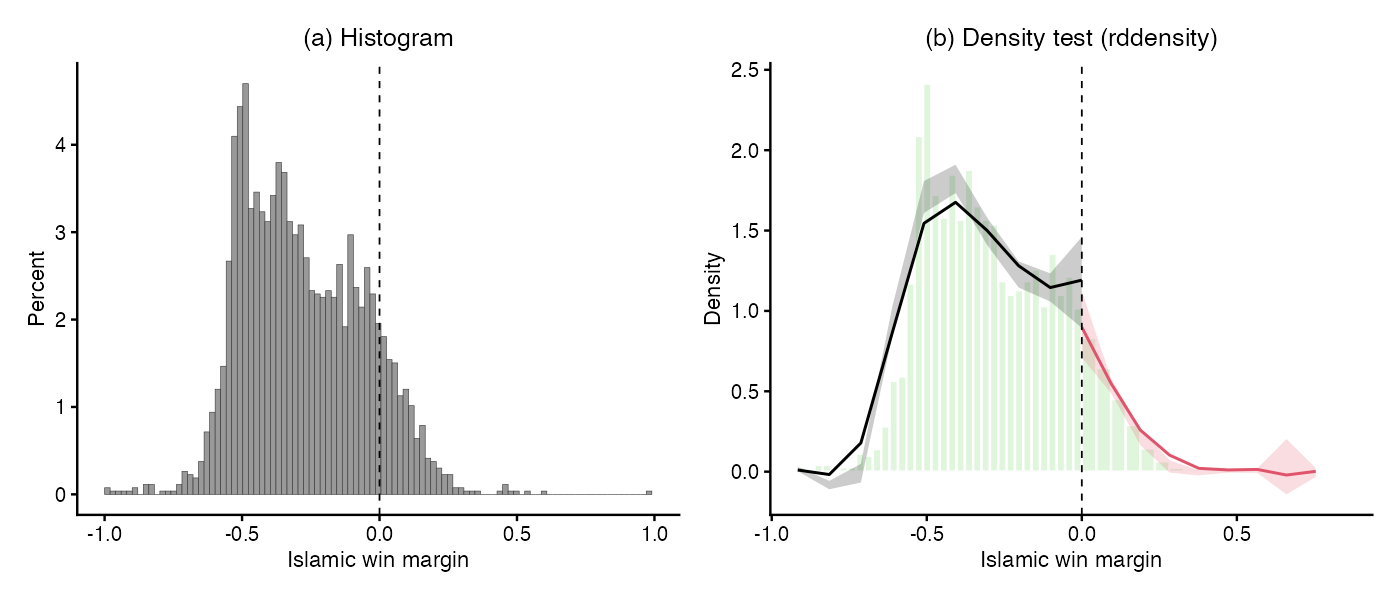
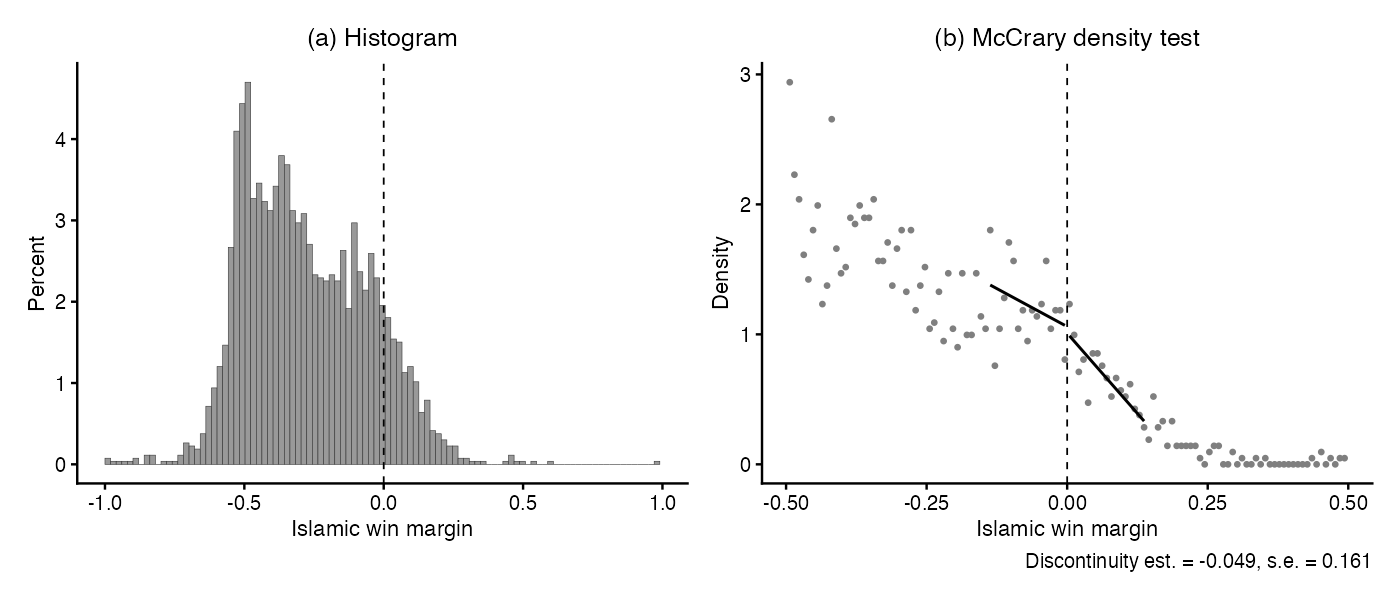
sajat mccrary teszt a 06-os scriptben, mert a rdd csomag mar nincs CRAN-on. ugyanazt adja mint a do-file (-0.049, se 0.161, p 0.76). az extension scriptek 07 es 08 lettek, nem volt 07-es. table3-ban a csillagok felso indexbe kerultek, kulonben latszott a latex forras, readme es session info frissitv

diff --git a/output/tables/table3.tex b/output/tables/table3.tex
@@ -3,16 +3,16 @@
 \toprule
  & Polynomial & h = 1.00 & h = 0.50 & h = 0.25 & h = 0.10 & h = 0.05\\
 \midrule
-Women & None & 0.012** (0.006) & 0.015** (0.006) & 0.018*** (0.006) & 0.025*** (0.007) & 0.018* (0.010)\\
- & Linear & 0.014** (0.007) & 0.021*** (0.006) & 0.025*** (0.007) & 0.028** (0.012) & 0.039** (0.019)\\
- & Quadratic & 0.027*** (0.007) & 0.030*** (0.007) & 0.033*** (0.010) & 0.032* (0.018) & 0.051 (0.032)\\
- & Cubic & 0.031*** (0.007) & 0.026*** (0.010) & 0.036** (0.015) & 0.057** (0.028) & 0.054 (0.042)\\
- & Quartic & 0.030*** (0.009) & 0.032** (0.012) & 0.044** (0.017) & 0.067** (0.033) & 0.028 (0.056)\\
+Women & None & 0.012$^{**}$ (0.006) & 0.015$^{**}$ (0.006) & 0.018$^{***}$ (0.006) & 0.025$^{***}$ (0.007) & 0.018$^{*}$ (0.010)\\
+ & Linear & 0.014$^{**}$ (0.007) & 0.021$^{***}$ (0.006) & 0.025$^{***}$ (0.007) & 0.028$^{**}$ (0.012) & 0.039$^{**}$ (0.019)\\
+ & Quadratic & 0.027$^{***}$ (0.007) & 0.030$^{***}$ (0.007) & 0.033$^{***}$ (0.010) & 0.032$^{*}$ (0.018) & 0.051 (0.032)\\
+ & Cubic & 0.031$^{***}$ (0.007) & 0.026$^{***}$ (0.010) & 0.036$^{**}$ (0.015) & 0.057$^{**}$ (0.028) & 0.054 (0.042)\\
+ & Quartic & 0.030$^{***}$ (0.009) & 0.032$^{**}$ (0.012) & 0.044$^{**}$ (0.017) & 0.067$^{**}$ (0.033) & 0.028 (0.056)\\
 \addlinespace
-Men & None & 0.009 (0.006) & 0.011* (0.006) & 0.012* (0.007) & 0.015* (0.008) & 0.010 (0.011)\\
- & Linear & 0.010* (0.006) & 0.014** (0.006) & 0.012* (0.007) & 0.011 (0.012) & 0.017 (0.013)\\
- & Quadratic & 0.016** (0.007) & 0.016** (0.007) & 0.019* (0.010) & 0.024 (0.016) & 0.048* (0.025)\\
- & Cubic & 0.017** (0.007) & 0.016 (0.010) & 0.025* (0.013) & 0.038* (0.023) & 0.048 (0.041)\\
- & Quartic & 0.017* (0.010) & 0.028** (0.012) & 0.026* (0.015) & 0.071** (0.028) & 0.035 (0.058)\\
+Men & None & 0.009 (0.006) & 0.011$^{*}$ (0.006) & 0.012$^{*}$ (0.007) & 0.015$^{*}$ (0.008) & 0.010 (0.011)\\
+ & Linear & 0.010$^{*}$ (0.006) & 0.014$^{**}$ (0.006) & 0.012$^{*}$ (0.007) & 0.011 (0.012) & 0.017 (0.013)\\
+ & Quadratic & 0.016$^{**}$ (0.007) & 0.016$^{**}$ (0.007) & 0.019$^{*}$ (0.010) & 0.024 (0.016) & 0.048$^{*}$ (0.025)\\
+ & Cubic & 0.017$^{**}$ (0.007) & 0.016 (0.010) & 0.025$^{*}$ (0.013) & 0.038$^{*}$ (0.023) & 0.048 (0.041)\\
+ & Quartic & 0.017$^{*}$ (0.010) & 0.028$^{**}$ (0.012) & 0.026$^{*}$ (0.015) & 0.071$^{**}$ (0.028) & 0.035 (0.058)\\
 \bottomrule
 \end{tabular}

diff --git a/py/ext_b_lasso.py b/py/ext_b_lasso.py
@@ -1,7 +1,7 @@
 """Extension B: "poor" index for each municipality.
 Lasso (LassoCV, 5 folds) that predicts the high school share of women 15-20 in 2000 from things fixed before 1994.
 Trained only on municipalities without an Islamic mayor, so the prediction is the schooling we would expect without one.
-Political variables are left out so poor does not overlap with pious. Called from R/09_extension_b.R, which writes the input csv first"""
+Political variables are left out so poor does not overlap with pious. Called from R/08_extension_b.R, which writes the input csv first"""
 
 
 import pandas as pd
@@ -18,7 +18,7 @@ untreated = df["i94"] == 0
 X = df.loc[untreated, predictors]
 y = df.loc[untreated, "hischshr1520f"]
 
-# same seed as set.seed in R/00_setup.R
+# fixed seed, so the folds are the same in every run
 folds = KFold(n_splits=5, shuffle=True, random_state=20261120)
 lasso = make_pipeline(StandardScaler(), LassoCV(cv=folds))
 lasso.fit(X, y)

diff --git a/output/tables/table1.tex b/output/tables/table1.tex
@@ -12,8 +12,8 @@ Population share below 19 & 0.405 & 0.083 & 0.445 & 0.075 & 0.400 & 0.082 & 0.04
 Population share above 60 & 0.092 & 0.040 & 0.073 & 0.031 & 0.095 & 0.040 & -0.022 & 0.002\\
 Gender ratio & 1.073 & 0.253 & 1.076 & 0.117 & 1.073 & 0.266 & 0.003 & 0.015\\
 Household size & 5.835 & 2.360 & 6.445 & 2.147 & 5.752 & 2.376 & 0.693 & 0.141\\
-District center & 0.345 & 0.475 & 0.394 & 0.489 & 0.338 & 0.473 & 0.056 & 0.029\\
-Province center & 0.023 & 0.149 & 0.067 & 0.250 & 0.017 & 0.129 & 0.050 & 0.009\\
-Sub-metro center & 0.022 & 0.146 & 0.076 & 0.266 & 0.014 & 0.119 & 0.062 & 0.009\\
+District centre & 0.345 & 0.475 & 0.394 & 0.489 & 0.338 & 0.473 & 0.056 & 0.029\\
+Province centre & 0.023 & 0.149 & 0.067 & 0.250 & 0.017 & 0.129 & 0.050 & 0.009\\
+Sub-metro centre & 0.022 & 0.146 & 0.076 & 0.266 & 0.014 & 0.119 & 0.062 & 0.009\\
 \bottomrule
 \end{tabular}

diff --git a/README.md b/README.md
@@ -15,8 +15,7 @@ and two extensions. Everything is in R, except the lasso in Extension B, which i
 1. Install the packages once:
 
    ```
-   Rscript -e 'install.packages(c("tidyverse", "haven", "fixest", "AER", "patchwork", "knitr"))'
-   Rscript -e 'install.packages("https://cran.r-project.org/src/contrib/Archive/rdd/rdd_0.57.tar.gz", repos = NULL, type = "source")'
+   Rscript -e 'install.packages(c("tidyverse", "haven", "fixest", "patchwork", "knitr"))'
    pip install -r requirements.txt
    ```
 
@@ -26,7 +25,7 @@ and two extensions. Everything is in R, except the lasso in Extension B, which i
    Rscript run_all.R
    ```
 
-`run_all.R` runs the scripts in `R/` in order, each in its own R session. `R/09_extension_b.R` calls `python3` for the lasso, so Python has to be on the path. The scripts print the main results and sample sizes to the console and write the tables as LaTeX to `output/tables` and the figures to `output/figures`.
+`run_all.R` runs the scripts in `R/` in order, each in its own R session, and then writes the package versions to `output/session_info.txt`. `R/08_extension_b.R` and `run_all.R` call `python3`, so Python has to be on the path. The scripts print the main results and sample sizes to the console and write the tables as LaTeX to `output/tables` and the figures to `output/figures`.
 
 The write-up itself is not in this repository; it is submitted separately. It takes its tables and figures straight from `output/`, which is committed so the results can be read without running anything.
 
@@ -34,15 +33,15 @@ The write-up itself is not in this repository; it is submitted separately. It ta
 
 | Script | Output |
 | --- | --- |
-| `R/00_setup.R` | Packages, controls, bandwidths, the RD regression `rd_reg()` and the `etable()` settings. Sourced by every script |
+| `R/00_setup.R` | Packages, controls, the main bandwidths for women and men, the RD regression `rd_reg()` and the `etable()` settings. Sourced by every script |
 | `R/01_prepare_data.R` | Estimation samples in `data/derived/` (not committed) |
 | `R/02_table1.R` | `table1.tex`, summary statistics |
-| `R/03_table2.R` | `table2_women.tex`, `table2_men.tex` |
+| `R/03_table2.R` | `table2_women.tex`, `table2_men.tex`; the enrolment bandwidths and the women = men test are in this script |
 | `R/04_table3.R` | `table3.tex` |
-| `R/05_table7.R` | `table7_hs1519.tex`, `table7_hs1529.tex`, `table7_nevm1519.tex` |
-| `R/06_figures.R` | `figure1`–`figure4` (PDF and PNG); prints the density test and the covariate regressions behind Figure 3 |
-| `R/08_extension_a.R` | `ext_a.tex`, `ext_a_cohorts` figure |
-| `R/09_extension_b.R`, `py/ext_b_lasso.py` | `ext_b.tex`; `ext_b_lasso_fit.csv` and `ext_b_lasso_coefficients.csv` from the lasso |
+| `R/05_table7.R` | `table7_hs1519.tex`, `table7_hs1529.tex`, `table7_nevm1519.tex`; the six Table VII bandwidths are in this script |
+| `R/06_figures.R` | `figure1`–`figure4` (PDF and PNG); prints the McCrary test and the eight covariate regressions behind Figure 3. The McCrary test, `mccrary_test()`, is written out in this script |
+| `R/07_extension_a.R` | `ext_a.tex`, `ext_a_cohorts` figure |
+| `R/08_extension_b.R`, `py/ext_b_lasso.py` | `ext_b.tex`; `ext_b_lasso_fit.csv` and `ext_b_lasso_coefficients.csv` from the lasso |
 
 ## Specification
 
@@ -61,28 +60,28 @@ The table notes in the paper do not list household size among the controls or me
 
 ## Where the replication differs from the paper
 
-- **Sample sizes and third decimals.** The bandwidths are the rounded values printed in the paper, so some windows hold one municipality more or fewer than the paper's (1,021 against 1,020 in the main window for women), and a few estimates differ in the third decimal.
-- **Table II, women = men.** The paper uses a different test. My p-values differ slightly; the conclusion at the main specification is the same.
-- **Figure 2 (b).** Same test and sample as the paper (McCrary's test on the 2,543 municipalities with the women's outcome and \|`iwm94`\| < 0.6). The panel draws the two weighted lines that the test compares at the cutoff, in place of the paper's density estimate over the whole range.
-- **Figure 3.** Eight separate RD regressions, one per covariate, in place of the paper's joint test.
+- **Sample sizes, third decimals and stars.** The bandwidths are the rounded values printed in the paper, so some windows hold a few municipalities more or fewer than the paper's: 1,021 against 1,020 in the main window for women, and up to six in Table VII at half and double the bandwidth. Three estimates in Table VII differ in the third decimal, and for women aged 15–29 the stars change at half the bandwidth and at the bandwidth.
+- **Table II, women = men.** The difference between the two effects is the same as in the paper, but its standard error is not: fixest also corrects for the number of regressors and uses the t distribution, so my p-values are somewhat larger. The conclusion at the main specification is the same; with a cubic in the margin (column 8) the difference is significant at 10% instead of 5%.
+- **Figure 2 (b).** Same test and sample as the paper: McCrary's test on the 2,543 municipalities with the women's outcome and \|`iwm94`\| < 0.6. The test is written in R following `DCdensity.ado` from the replication package, since rdd, the R package with the test, is no longer on CRAN. The panel draws the two weighted lines that the test compares at the cutoff, in place of the paper's density estimate over the whole range.
+- **Figure 3.** Eight separate RD regressions, one per covariate, at the women's bandwidth and without controls, in place of the paper's joint test with a bandwidth for each covariate.
 - **Figures 3 and 4.** A straight line on each side of the cutoff, in place of the paper's local linear smoother. The bins and windows are the paper's.
-- **Table I.** No significance stars; the difference has its standard error.
+- **Table I.** No significance stars and no row for the Islamic-mayor dummy; the difference has its standard error.
 
 ## Extensions
 
-**A. Was the discontinuity there before 1994?** The paper's RD, with its controls and bandwidth for women, on outcomes the 1994 mayor could not have affected: the high school share of 15–20 year-olds in the 1990 census, and the share of older cohorts in 2000. The minimum detectable effect, (1.96 + 0.84) × SE, shows what the 1990 data can detect. Checks: the placebo at h/2 and 2h, and an RD on being in the 1990 sample.
+**A. Was the discontinuity there before 1994?** The paper's RD, with its controls and bandwidth for women, on outcomes the 1994 mayor could not have affected: the high school share of 15–20 year-olds in the 1990 census, next to the 2000 estimate on the same municipalities, and the high school share of older cohorts in 2000, for women and men. The minimum detectable effect, (1.96 + 0.84) × SE, shows what the 1990 data can detect. Checks: the placebo at h/2 and 2h, and an RD on being in the 1990 sample.
 
 **B. For whom does the effect hold?** The effect on young women in two median splits inside the women's window: poverty, measured by predicted schooling from a lasso on characteristics fixed before 1994 and trained on municipalities without an Islamic mayor, and piety, measured by the Islamic vote share in 1994. Checks: the number of treated municipalities in each group, and an RD on predicted schooling.
 
 ## Software
 
-R 4.6.2 with fixest 0.14.2, rdd 0.57, tidyverse 2.0.0, haven 2.5.5, patchwork 1.3.2 and knitr 1.52; Python 3.11 with pandas and scikit-learn. `output/session_info.txt` records the versions of the last run. The seed in `py/ext_b_lasso.py` fixes the cross-validation folds; nothing else is random.
+R 4.6.2 with fixest 0.14.2, tidyverse 2.0.0 (ggplot2 4.0.4), haven 2.5.5, patchwork 1.3.2 and knitr 1.52; Python 3.11 with pandas 2.2.2 and scikit-learn 1.5.1. `output/session_info.txt` records the versions of the last run. The seed in `py/ext_b_lasso.py` fixes the cross-validation folds; nothing else is random.
 
 ## Layout
 
 ```
 run_all.R          runs everything
-R/                 scripts 00–09
+R/                 scripts 00–08
 py/                the lasso step of Extension B
 requirements.txt   Python packages
 data/              regdata0.dta, the course data file
